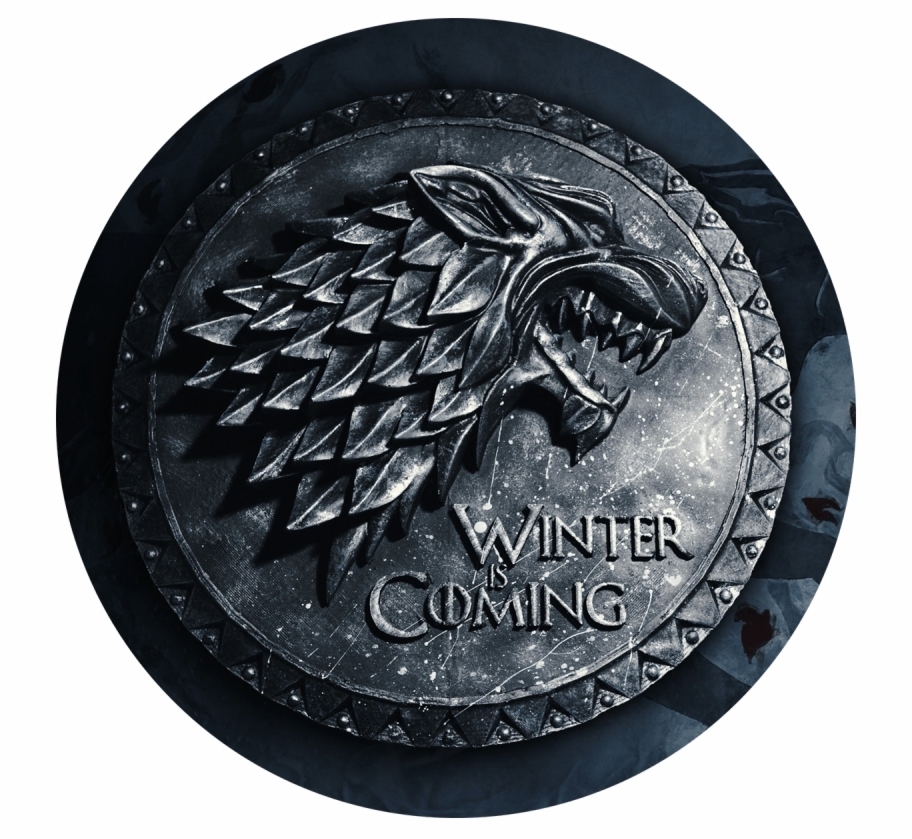
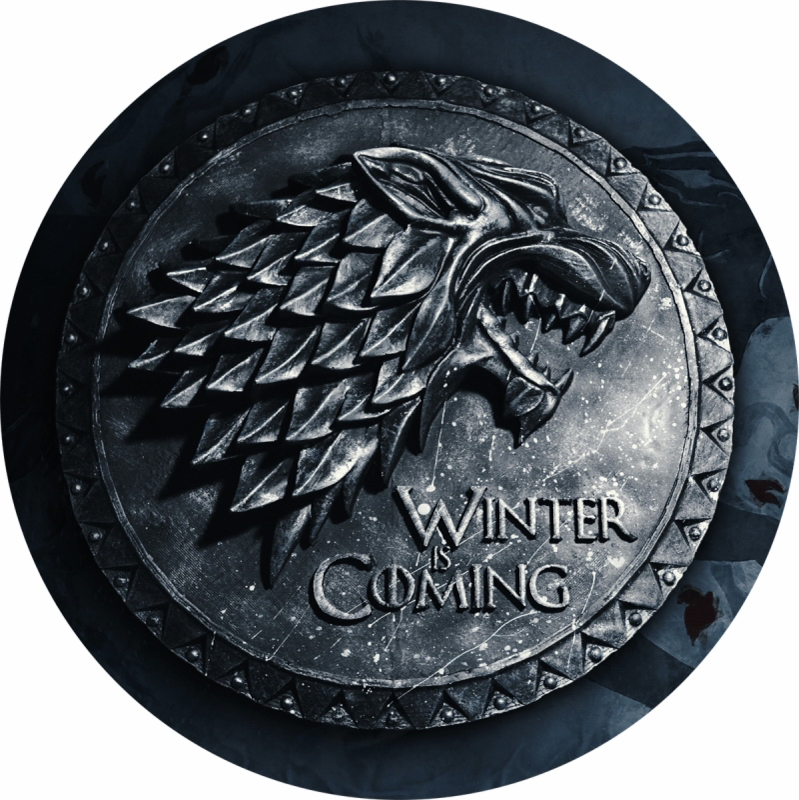
Modified stark.jpeg and made it squared, reduced the size of the items on the game table. Created the media queries for header and footer, then created header_footer.css to have a dedicated css file. Reduced the size of the header and the footer. Added info to README.md.

diff --git a/CSS/header_footer.css b/CSS/header_footer.css
@@ -1,0 +1,176 @@
+/****************** MOBILE FIRST APPROACH ******************/
+
+/*** Note: Breakpoint 992px not necessary ***/
+
+
+
+/****** SCREEN MAX 576px ******/
+
+    .header {
+        margin: 0;
+        top: 0;
+        left: 0;
+        right: 0;
+        padding-top: 5px;
+        padding-bottom: 5px;
+        background-color: #2e3e50;
+        border: 3px solid #f4c318;
+        color: #ffffff;
+        font-size: 26px;
+        text-align: center;
+    }
+
+    nav ul {
+        display: none;
+    }
+
+    .burger {
+        display: block;
+        position: absolute;
+        right: 0;
+        top: 0;
+        width: 30px;
+        margin: 10px;
+    }
+    
+    .burger hr {
+        border: 1.3px solid #ffffff;
+    }
+    
+    #myLinks {
+        display: none;
+        position: absolute;
+        top: 0;
+        left: 0;
+        right: 0;
+        bottom: 0;
+        padding-top: 50px;
+        padding-bottom: 20px;
+        background-color: #2e3e50;
+        border: 3px solid #f4c318;
+        text-align: center;
+    }
+    
+    #myLinks a:link {
+        margin: 28px;
+        color: white;
+        text-decoration: none;
+        font-size: 26px;
+        display: block;
+    }
+    
+    
+    #myLinks a:visited {
+        color: white;
+      }
+    
+    
+    #myLinks hr {
+        border: 1px solid #ffffff;
+        width: 30px;
+    }
+
+    .footer {
+        margin: 0;
+        left: 0;
+        right: 0;
+        bottom: 0;
+        padding-top: 5px;
+        padding-bottom: 5px;
+        background-color: #2e3e50;
+        border: 3px solid #f4c318;
+        color: #ffffff;
+        font-size: 12px;
+        text-align: center;
+    }
+
+    .footer .bigFooter {
+        display: none;
+    }
+
+
+
+
+/****** SCREEN MIN 576px ******/
+
+@media (min-width: 576px) {
+    .footer .bigFooter {
+        display: block;
+        padding-top: 10px;
+        padding-bottom: 10px;
+    }
+        
+    .footer .smallFooter {
+        display: none;
+    }
+
+}
+
+
+
+
+/****** SCREEN MIN 768px ******/
+
+@media (min-width: 768px) {
+    nav ul {
+        padding: 0;
+        list-style: none;
+        display: flex;
+        justify-content: space-evenly;
+        background-color: #ffffff;
+    }
+
+    nav li {
+        background-color: #2e3e50;
+        border: 3px solid #f4c318;
+        padding: 8px;
+        width: 100px;
+        font-size: 12px;
+        text-align: center;
+    }
+
+    nav li a {
+        color: #ffffff;
+        text-decoration: none;
+    }
+
+    .burger {
+        display: none;
+    }
+}
+
+
+
+
+
+/****** SCREEN MIN 1200px ******/
+
+@media (min-width: 1200px) {
+    .header {
+        padding-top: 20px;
+        padding-bottom: 20px;
+        font-size: 40px;
+    }
+    
+    nav ul {
+        padding: 0;
+        list-style: none;
+        display: flex;
+        justify-content: space-evenly;
+        background-color: #ffffff;
+    }
+
+    nav li {
+        background-color: #2e3e50;
+        border: 3px solid #f4c318;
+        padding: 10px;
+        width: 100px;
+        text-align: center;
+        font-size: 16px;
+    }
+
+    nav li a {
+        color: #ffffff;
+        text-decoration: none;
+    }
+}

diff --git a/index.html b/index.html
@@ -5,60 +5,52 @@
     <meta charset="UTF-8">
     <meta name="viewport" content="width=device-width, initial-scale=1.0">
     <meta http-equiv="X-UA-Compatible" content="ie=edge">
-    <link rel="stylesheet" href="../CSS/style.css">
-    <link rel="stylesheet" href="../CSS/header.css">
+    <link rel="stylesheet" href="CSS/style.css">
+    <link rel="stylesheet" href="CSS/header_footer.css">
     <link href="https://fonts.googleapis.com/css?family=Ubuntu&display=swap" rel="stylesheet">
     <link href="https://fonts.googleapis.com/css?family=Arvo&display=swap" rel="stylesheet">
 
-    <title>The Arcade</title>
+    <title>Memory</title>
 </head>
 
 <body>
 
 
-
-
-    <!--   ********** HEADER START ********** -->
+    <!-- HEADER START -->
 
     <header class="header">
-        <a href="index.html">THE ARCADE</a>
+        <p>MEMORY</p>
     </header>
 
-    <!--   ********** HEADER END ********** -->
+    <!-- HEADER END -->
 
 
 
 
-    <!--   ********** 3 BUTTONS MENU ********** -->
-
+    <!-- 3 BUTTONS MENU START -->
 
     <nav>
         <ul>
-            <li><a href="twincards.html">Game 1</a></li>
-            <li><a href="tris.html">Game 2</a></li>
-            <li><a href="none.html">Game 3</a></li>
+            <li><a href="twincards.html">New Game</a></li>
+            <li><a href="tris.html">Solution</a></li>
+            <li><a href="none.html">How To</a></li>
         </ul>
     </nav>
 
-
-    <!--   ********** 3 BUTTONS END ********** -->
+    <!-- 3 BUTTONS MENU END -->
 
 
 
 
     <!-- BURGER MENU START -->
 
-
     <div id="myLinks">
 
-        <a href="index.html">Home</a>
+        <a href="game1.html">New Game</a>
         <hr>
-        <a href="game1.html">Twin Cards</a>
+        <a href="game2.html">Solution</a>
         <hr>
-        <a href="game2.html">Tris</a>
-        <hr>
-        <a href="game3.html">Something</a>
-        <hr>
+        <a href="game3.html">How To</a>
     </div>
     <a href="javascript:void(0);" class="icon" onclick="burgerMenu()">
         <span class="burger">
@@ -82,13 +74,13 @@
 
     <!-- BURGER MENU END -->
 
+<!--
 
-
+    <!-- GAME START -->
 
     <main class="main">
         <section>
-            Let's Play
-            <p id="demo"></p>
+            <!-- <p id="demo"></p> REMEMBER TO DELETE THIS -->
             <div class="table">
                 <img id="one" class="pic" onclick="guess(this.id)" />
                 <img id="two" class="pic" onclick="guess(this.id)" />
@@ -116,14 +108,19 @@
         </section>
     </main>
 
+    <!-- GAME END -->
 
+
+
+    <!-- FOOTER START -->
 
     <footer class="footer">
-        <p class="bigFooter">© 2020 The Arcade Games Project - Code Institute Milestone 2</p>
-        <p class="smallFooter">© 2020 The Arcade Games Project</p>
+        <p class="bigFooter">© 2020 Memory Game Project - Code Institute Milestone 2</p>
+        <p class="smallFooter">© 2020 Memory Game Project</p>
         <p class="smallFooter">Code Institute Milestone 2</p>
     </footer>
 
+    <!-- FOOTER END -->
 
 
     <script src="js/script.js"></script>

diff --git a/CSS/style.css b/CSS/style.css
@@ -5,9 +5,8 @@ body {
     font-family: 'Arvo', Ubuntu, sans-serif;
 }
 
-
 .main {
-    padding-top: 80px;
+    padding-top: 50px;
     padding-bottom: 180px;
     background-color: #ffffff;
     color: #15162e;
@@ -23,59 +22,16 @@ body {
 
 .pic {
     border-radius: 50%;
-    width: 155px;
-    height: 142px;
-    margin: 48px;
+    width: 145px;
+    height: 145px;
+    margin: 28px;  /* 48px */
 }
 
 
 .pics {
     border-radius: 50%;
-    width: 154px;
-    height: 154px;
-    margin: 40px;
-    margin-right: 54px;
+    width: 145px; /* 154px */
+    height: 145px; /* 154px */
+    margin: 26px; 
     border: 2px solid #f4c318;
-}
-
-
-
-@media (max-width: 576px) {
-    .footer {
-        margin: 0;
-        left: 0;
-        right: 0;
-        bottom: 0;
-        padding-top: 30px;
-        padding-bottom: 30px;
-        background-color: #2e3e50;
-        border: 3px solid #f4c318;
-        color: #ffffff;
-        font-size: 14px;
-        text-align: center;
-    }
-
-    .footer .bigFooter {
-        display: none;
-    }
-}
-
-@media (min-width: 576px) {
-    .footer {
-        margin: 0;
-        left: 0;
-        right: 0;
-        bottom: 0;
-        padding-top: 30px;
-        padding-bottom: 30px;
-        background-color: #2e3e50;
-        border: 3px solid #f4c318;
-        color: #ffffff;
-        font-size: 14px;
-        text-align: center;
-    }
-
-    .footer .smallFooter {
-        display: none;
-    }
 }

diff --git a/js/script.js b/js/script.js
@@ -31,8 +31,8 @@ var arr = [0, 0, 1, 1, 2, 2, 3, 3, 4, 4, 5, 5, 6, 6, 7, 7];
 arr.sort(function (a, b) { return 0.5 - Math.random() });
 
 
-// String with the solution for testing purposes
-document.getElementById("demo").innerHTML = arr;
+// String with the solution for testing purposes *************************** REMEMBER TO DELETE THIS    <---------
+// document.getElementById("demo").innerHTML = arr;
 
 
 // Let's hide all the cards with the House Stark Crest

diff --git a/README.md b/README.md
@@ -37,6 +37,9 @@ Milestone Project 2 - with Code Institute
 
 **06 Feb:** I could find that my initial idea to create three games for the project is not possible considering the deadline. I will complete only the current game I'm currently working on. The name the Arcade must be changed to the game name "Memory". I will add more features to this game if I have enough time, to make it nicer.
 
+**06 Feb:** The difference in terms of pixels between the House Stark Crest and the characters pictures was causing too many problems, the character pictuare was squared, but the crest was not. I used lightroom to make the crest squared, now it's much easier to have a balanced and better organised game table.
+
+
 ## Deployment
 
 
